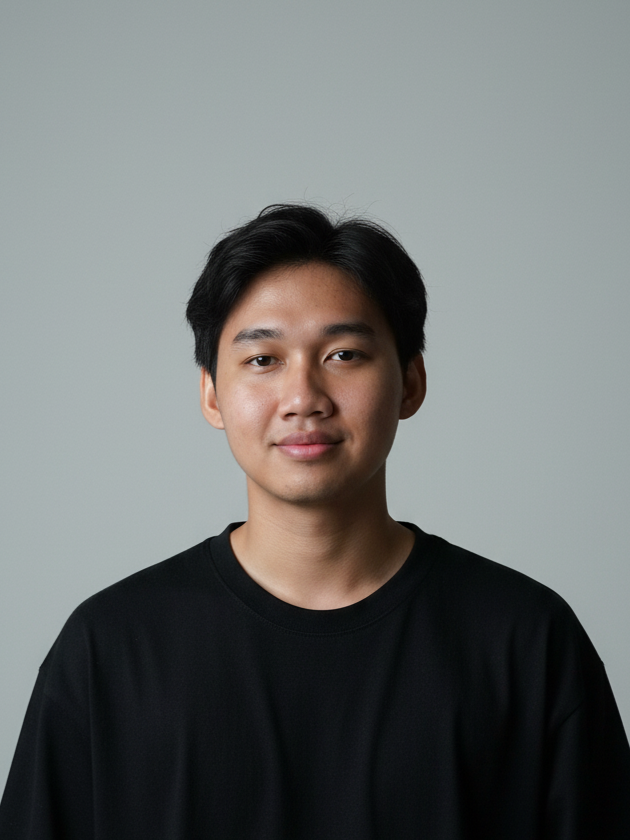
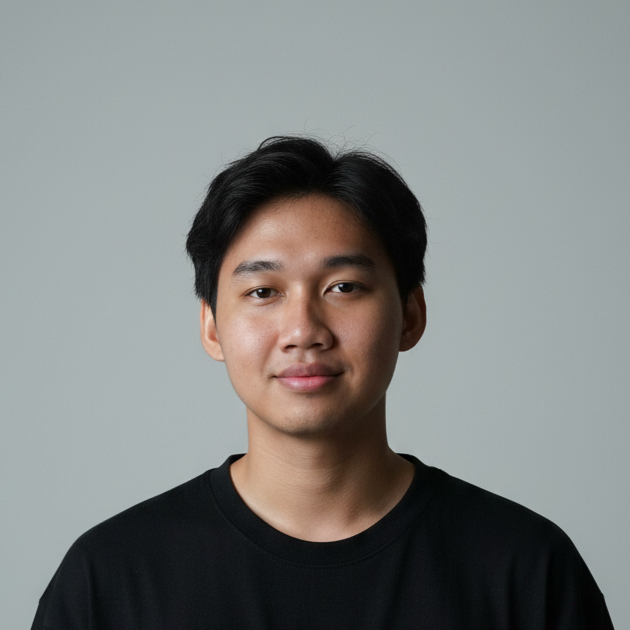
Update profile image and home view

diff --git a/src/views/HomeView.vue b/src/views/HomeView.vue
@@ -25,7 +25,7 @@
         </svg>Download Resume</button> -->
     </div>
     <div class="flex justify-center md:justify-start fadein-right"><img alt="avatar" fetchpriority="high" width="300" height="300" decoding="async" data-nimg="1"
-        class="w-10/12 md:h-auto rounded-full border-4 border-amber-200 pict" src="img/profil.png">
+        class="w-10/12 md:h-auto rounded-full border-4 border-amber-200 pict" src="img/Profil.png">
     </div>
   </main>
 </template>
